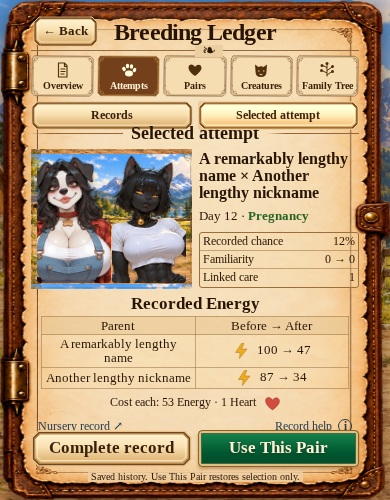
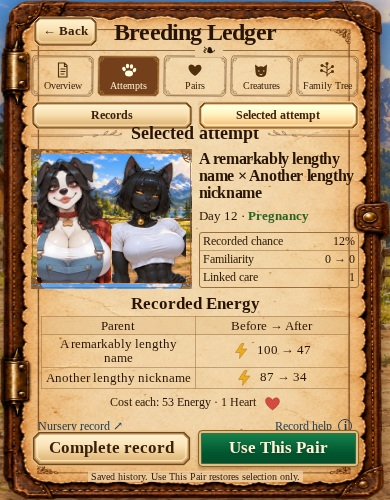
Match Ledger B parchment materials and fine engraved controls

diff --git a/src/features/breeding-records/BreedingLedgerBook.module.css b/src/features/breeding-records/BreedingLedgerBook.module.css
@@ -46,3 +46,8 @@
 .profile>img{width:300%;left:-100%}
 @media(max-width:700px){.profile>img{width:320%;left:-110%}}
 @media(min-width:701px) and (min-height:780px){.header:before{background-image:url('/images/ui/breeding-ledger-journal-b/fidelity-v2/barn.webp');width:85px;height:43px}}
+/* Third reference pass: mottled paper, transparent paper controls and fine engraved rules. */
+.shell .tabs button{border-image-source:url('/images/ui/breeding-ledger-journal-b/fidelity-v3/tab.svg');font-weight:400}.shell .tabs button[aria-pressed=true]{border-image-source:url('/images/ui/breeding-ledger-journal-b/fidelity-v3/tab-active.svg')}.counts>div{border-image-source:url('/images/ui/breeding-ledger-journal-b/fidelity-v3/tab.svg')}.counts strong{font-weight:400}.identity .scene{border-image-source:url('/images/ui/breeding-ledger-journal-b/fidelity-v3/engraved-frame.svg');border-image-width:14px}.selected>h2:before,.selected>h2:after{height:18px;background:url('/images/ui/breeding-ledger-journal-b/fidelity-v3/heading-rule.svg') center/100% 18px no-repeat}.selected>h2:after{transform:scaleX(-1)}.filters input{background-image:url('/images/ui/breeding-ledger-journal-b/fidelity-v3/search.svg');background-size:16px 16px;background-position:7px center;background-repeat:no-repeat;padding-left:29px}.filters select{appearance:none;background-image:url('/images/ui/breeding-ledger-journal-b/fidelity-v3/arrow.svg');background-size:13px 11px;background-position:right 7px center;background-repeat:no-repeat;padding-right:25px}.summary dl{background:#efd09a33}.energy table{background:#efd09a22}.shell .row[aria-pressed=true]{border-radius:3px}.summary h3{letter-spacing:-.4px}
+@media(min-width:701px) and (min-height:780px){.book{gap:4px}.browse{gap:4px}.selected{gap:4px}.shell .tabs button{min-height:48px}.counts>div{min-height:45px}.identity{min-height:134px;max-height:150px;grid-template-columns:1fr 1.02fr}.summary dl>div{padding:3px 5px}.summary h3{font-size:24px}.shell .row{min-height:30px}.counts strong{font-size:28px}.energy h3{font-size:21px}.energy table{font-size:16px}}
+@media(max-width:700px){.filters input{padding-left:25px;background-size:14px 14px;background-position:6px center}.filters select{padding-right:20px;background-position:right 4px center;background-size:12px 10px}.selected>h2:before,.selected>h2:after{height:14px;background-size:100% 14px}}
+.book{background-image:url('/images/ui/breeding-ledger-journal-b/fidelity-v3/folio.webp')}

diff --git a/scripts/build-breeding-ledger-fidelity-v3.py b/scripts/build-breeding-ledger-fidelity-v3.py
@@ -1,0 +1,11 @@
+from pathlib import Path
+p=Path('public/images/ui/breeding-ledger-journal-b/fidelity-v3');p.mkdir(parents=True,exist_ok=True)
+src=Path('public/images/ui/breeding-ledger-journal-b/fidelity-v2')
+for n in ['tab','tab-active']:
+ s=(src/f'{n}.svg').read_text()
+ if n=='tab':s=s.replace('fill="#f6ddb1"','fill="#f6ddb1" fill-opacity=".24"')
+ (p/f'{n}.svg').write_text(s)
+s=(src/'engraved-frame.svg').read_text().replace('stroke-width="1"','stroke-width="2.3"').replace('stroke-width=".8"','stroke-width="1.6"');(p/'engraved-frame.svg').write_text(s)
+(p/'heading-rule.svg').write_text('''<svg xmlns="http://www.w3.org/2000/svg" viewBox="0 0 180 20" fill="none" stroke="#805329" stroke-width="1"><path d="M0 12h153q8 0 15-6m-8 6q8 2 17-1M142 12q3-8 9-8-1 7-9 8m12 0q3-5 9-5-1 6-9 5m-23 0q-5 5-10 3 3-5 10-3M0 15h102"/><path d="m163 5 4-2-1 4m7 3 4-2-1 4"/></svg>''')
+(p/'search.svg').write_text('<svg xmlns="http://www.w3.org/2000/svg" viewBox="0 0 24 24" fill="none" stroke="#42270f" stroke-width="2.2"><circle cx="10" cy="10" r="6.5"/><path d="m15 15 6 6"/></svg>')
+(p/'arrow.svg').write_text('<svg xmlns="http://www.w3.org/2000/svg" viewBox="0 0 18 14" fill="none" stroke="#42270f" stroke-width="2.4" stroke-linecap="round"><path d="m4 4 5 5 5-5"/></svg>')

diff --git a/AGENTS.md b/AGENTS.md
@@ -213,3 +213,5 @@ The user selected B and requested matching assets, actual desktop/phone screens 
 The user selected B and requested close concept fidelity. Preserve the tall leather/deckled parchment folio, ink barn and confined margin drawings, cream angular controls, five icon tabs, grouped filters, aligned three-row history collection and selected historical summary/recorded Energy table. Use canonical profile sources with full figure on tap; never regenerate concept characters or substitute sample history in production. Overview is one grouped dashboard; complete attempt records use four meaningful sections with all notes, progression, explicit-ID care links and optional scenes retained. Short/long-name views use Records/Selected focus; archived/missing-art fallbacks stay honest. Use This Pair restores recorded role order only. Browsing/filtering/help/source return never charges, rolls or writes. See docs/BREEDING_LEDGER_JOURNAL_B_RUNTIME.md. PR21 remains draft/unmerged.
 
 Ledger B second fidelity pass: preserve fidelity-v2's500px desktop folio, stronger dark type, irregular etched tab/count/picture-frame surfaces and detailed generated sepia daisy/windmill art. Replace neither the RGBA ink artwork with the old sparse stick drawings nor canonical creatures with illustrative concept cast. Keep margin art inside dedicated gutters, retain native controls and actual history values, and recheck all primary/focus views after typography changes.
+
+Ledger B third fidelity pass: use fidelity-v3's aged amber folio and translucent paper tabs/counts, regular tab/count typography, stronger engraved illustration corners, botanical heading rules and search/dropdown symbols. This refines v2, while reusing its detailed sepia margin art and canonical close profile sources. Keep UI text live and primary views inside the viewport; verify screenshot geometry after spacing/font changes.

diff --git a/docs/BREEDING_LEDGER_JOURNAL_B_RUNTIME.md b/docs/BREEDING_LEDGER_JOURNAL_B_RUNTIME.md
@@ -8,3 +8,6 @@ Seven ledger-care/selection tests pass. Browser QA covers six viewports, all fiv
 
 ## Second fidelity pass
 User again compared actual screen against B. Fidelity-v2 now uses a500px desktop folio, irregular etched tab/count borders and transparent picture frame, stronger dark ink/bold navigation/counts, larger historical metrics and generated sepia daisy/windmill marginalia. Drawings stay in filter/pager/Energy gutters and are removed from short primary views where they would reduce clarity. Source masters, prompts and SHA256 manifest remain in the asset kit. Actual desktop/phone screenshots and the existing six-viewport/read-only flow audit are rerun for this pass.
+
+## Third fidelity pass
+User compared the next actual capture with B again. Fidelity-v3 adds visibly aged/flecked amber parchment, transparent paper control faces, regular tab/count lettering, visible engraved scene corners, botanical selected-record rules and matching search/dropdown symbols. Tall desktop shifts a little space into the selected illustration and recorded values while preserving the grouped filters/history/summary/actions composition. Complete canonical figures remain reachable by tapping the close scene. Native assets, generated master, exact prompt and hashes are retained.

diff --git a/public/images/ui/breeding-ledger-journal-b/fidelity-v3/README.md b/public/images/ui/breeding-ledger-journal-b/fidelity-v3/README.md
@@ -1,0 +1,5 @@
+# Concept B material and engraving refinement
+
+Reference: ../source/approved-options.png. The generated RGBA folio edit retains the approved silhouette/hinges/clasp, but replaces the clean paper with aged amber fibers, mottling, worn creases and deckled edges. Built-in imagegen edited the existing final master using center B as style reference. Exact prompt and untouched master are retained. Runtime WebP trims alpha padding, resizes to1600px tall and uses quality94; creature art is unchanged.
+
+Native assets restore transparent paper controls, regular tab/count typography, stronger engraved picture-frame corners, botanical heading rules, a real search icon and matching dropdown chevrons. scripts/build-breeding-ledger-fidelity-v3.py regenerates these SVGs. All text/controls remain live. Material changes preserve the same selection-only, read-only and source-return behavior.
